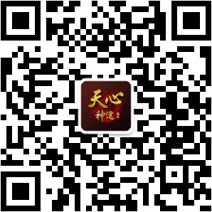
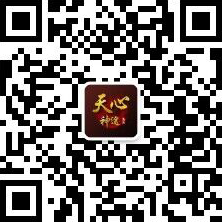
样式修改

diff --git a/app/public/pages/index.css b/app/public/pages/index.css
@@ -271,7 +271,7 @@ footer .copyright {
   margin-top: -238px;
   box-sizing: border-box;
   background: #fff;
-  min-height: 1000px;
+  min-height: 620px;
 }
 
 .shadow {
@@ -681,6 +681,10 @@ footer .copyright {
   color: #626262;
   text-align: center;
   line-height: 23px;
+}
+.sub-us .sub-way img {
+  width: 212px;
+  height: 212px;
 }
 
 .sub-us .sub-way .text:first-of-type {
